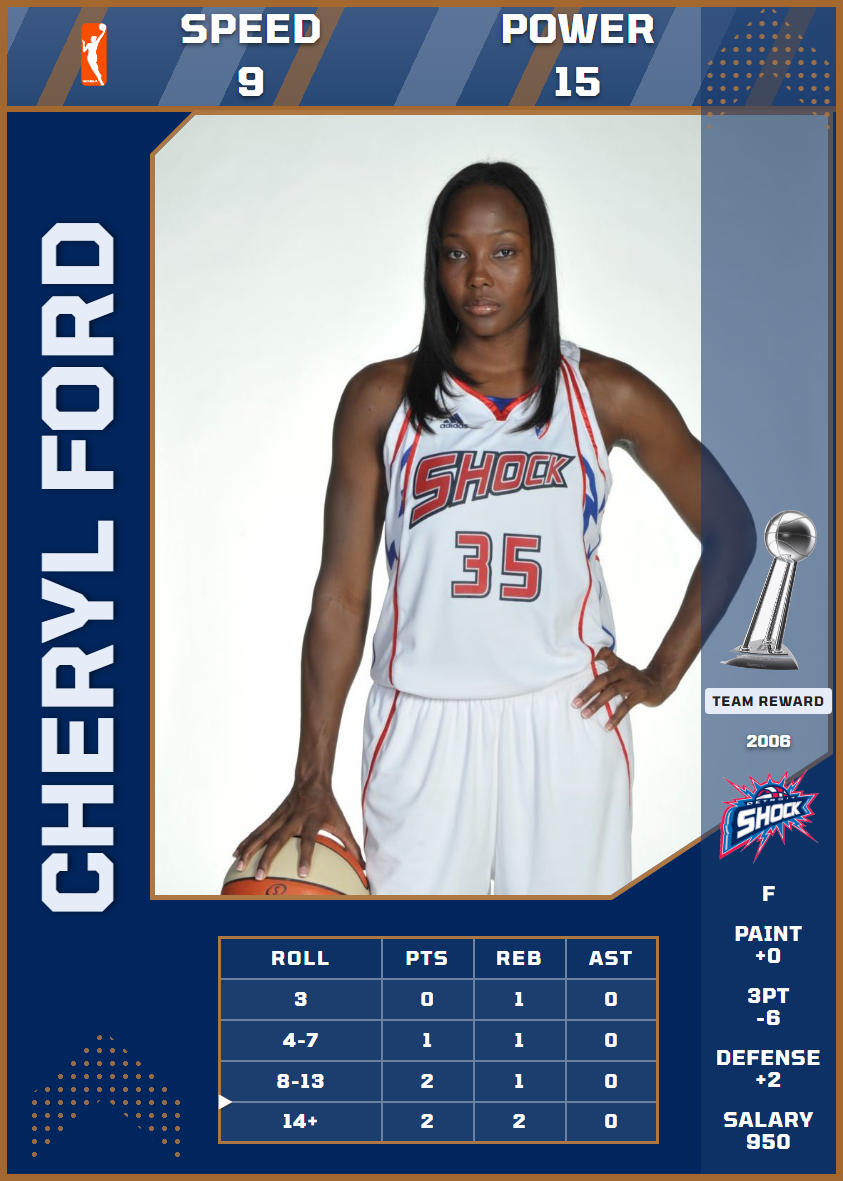
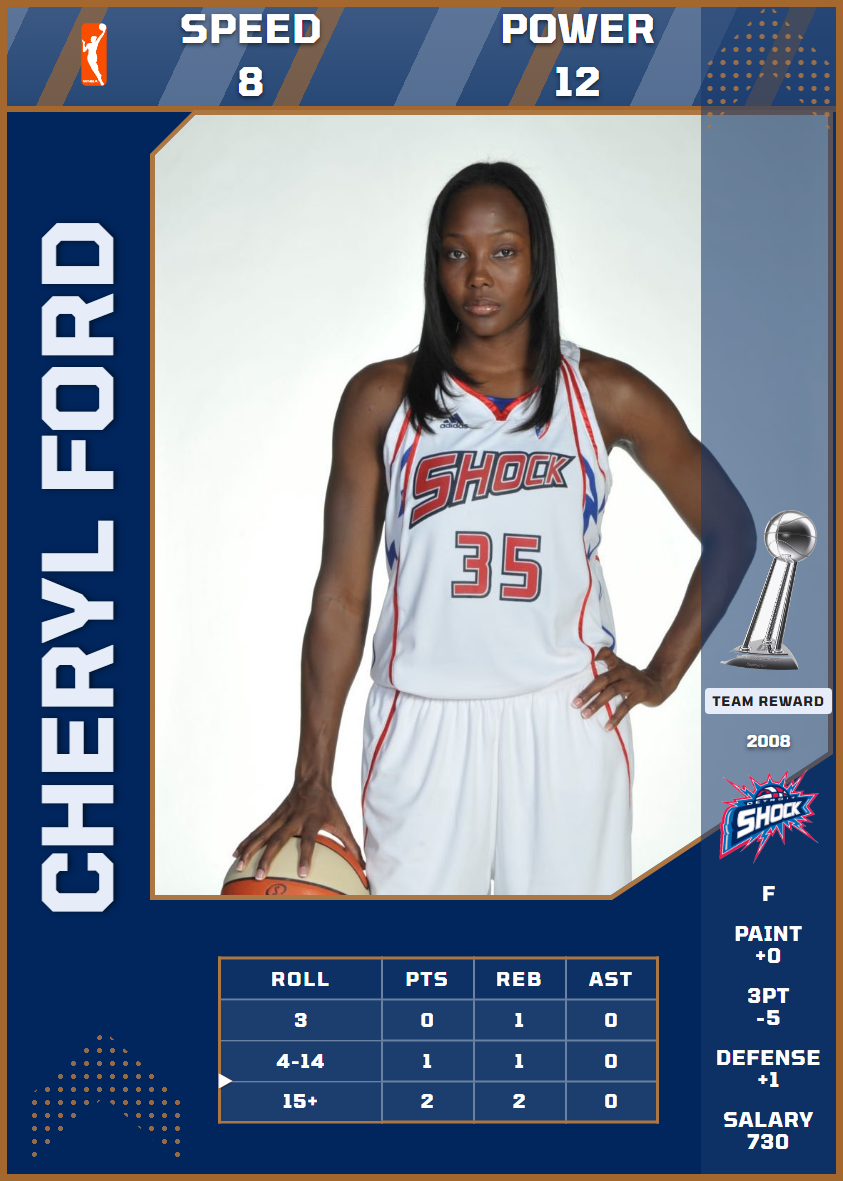
fix(export): the capstone sets export, and the re-picked reward faces
The face exporter never listed set-rewards or wnba-set-rewards, and their cards are skipped by the origin sets' exports as migrated, so the six capstone cards had no face anywhere in the game. Both sets are in the map now and exported; the five re-picked WNBA franchise rewards and the two whose season changed under the same filename are re-exported; three stale faces pruned.

diff --git a/scripts/studio/export.js b/scripts/studio/export.js
@@ -58,6 +58,11 @@ const SET_FILES = {
   'wnba-rookie': 'cards-wnba-rookie.json',
   'wnba-super-season': 'cards-wnba-super-season.json',
   'wnba-team-rewards': 'cards-wnba-team-rewards.json',
+  // The two capstone sets (2026-09-06). Their cards are MIGRATED from the
+  // special sets, whose exports skip a migrated id, so these are the only
+  // place those faces are ever rendered.
+  'set-rewards': 'cards-set-rewards.json',
+  'wnba-set-rewards': 'cards-wnba-set-rewards.json',
   // THE STRATEGY DECK IS NOT A GENERATED FILE. Its cards are declared in
   // src/game/strats.js rather than built by a generator, so it names no JSON —
   // `null` marks a set whose list comes from code. It exports like any other
